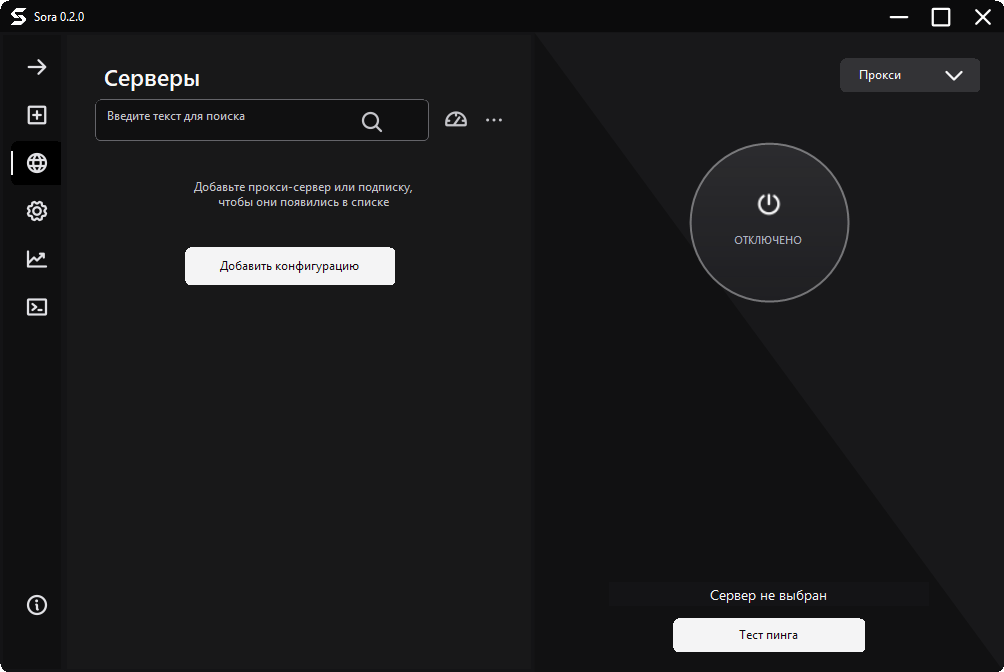
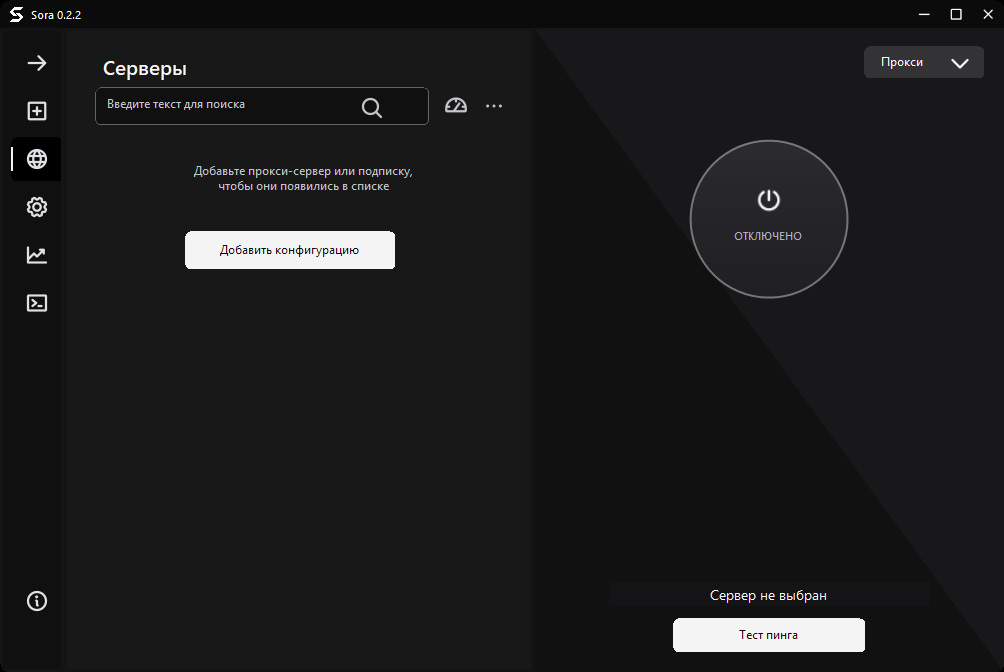
docs: refresh Sora GitHub presentation

diff --git a/README.md b/README.md
@@ -1,56 +1,55 @@
-<div align="center">
-  <picture>
-    <source media="(prefers-color-scheme: dark)" srcset="v2rayN/v2rayN/Assets/Sora/sora-logo-white.png">
-    <source media="(prefers-color-scheme: light)" srcset="v2rayN/v2rayN/Assets/Sora/sora-logo-black.png">
-    <img alt="Sora" src="v2rayN/v2rayN/Assets/Sora/sora-logo-black.png" width="96">
-  </picture>
+<p align="center">
+  <img src="docs/images/sora-cover.png" alt="Sora" width="100%">
+</p>
 
-  # Sora
+<h1 align="center">Sora</h1>
 
-  Простой открытый прокси-клиент для Windows 7 SP1 x86
+<p align="center">
+  <strong>Прокси-клиент для Windows 7 SP1 x86.</strong><br>
+  Один установщик, современный интерфейс и всё необходимое внутри.
+</p>
 
-  [![Release](https://img.shields.io/github/v/release/levvs-one/sora-client?display_name=tag&style=flat-square)](https://github.com/levvs-one/sora-client/releases/latest)
-  [![License](https://img.shields.io/github/license/levvs-one/sora-client?style=flat-square)](LICENSE)
-  ![Platform](https://img.shields.io/badge/Windows-7%20SP1-111111?style=flat-square)
-  ![Architecture](https://img.shields.io/badge/architecture-x86-555555?style=flat-square)
-</div>
+<p align="center">
+  <a href="https://github.com/levvs-one/sora-client/releases/download/v0.2.2/Sora-0.2.2-Win7-x86-Setup.exe"><strong>Скачать Sora 0.2.2</strong></a>
+  ·
+  <a href="https://github.com/levvs-one/sora-client/releases/download/v0.2.2/Sora-0.2.2-SHA256SUMS.txt">SHA-256</a>
+  ·
+  <a href="https://github.com/levvs-one/sora-client/releases/tag/v0.2.2">Что изменилось</a>
+</p>
 
-`sora-client` — техническое имя проекта. В интерфейсе и установщике используется название **Sora**.
+<p align="center">
+  <img alt="Windows 7 SP1" src="https://img.shields.io/badge/Windows-7%20SP1-222222?style=flat-square">
+  <img alt="x86" src="https://img.shields.io/badge/архитектура-x86-444444?style=flat-square">
+  <a href="LICENSE"><img alt="GPL-3.0" src="https://img.shields.io/badge/лицензия-GPL--3.0-222222?style=flat-square"></a>
+</p>
 
-Проект создан для сообщества пользователей устаревших 32-разрядных систем: один установщик, понятный интерфейс и необходимые компоненты в комплекте.
+> [!NOTE]
+> Sora — независимый проект сообщества на базе v2rayN. Он не связан с OpenAI или Happ. Техническое имя репозитория — `sora-client`.
 
-> [!IMPORTANT]
-> Sora — независимый неофициальный проект. Он не связан с OpenAI, Flyfrog LLC, Happ Desktop или их владельцами. В проект не входят исходный код, логотипы и другие материалы Happ.
+## Быстрый старт
 
-![Главное окно Sora](docs/images/sora-main.png)
+1. Скачай [`Sora-0.2.2-Win7-x86-Setup.exe`](https://github.com/levvs-one/sora-client/releases/download/v0.2.2/Sora-0.2.2-Win7-x86-Setup.exe).
+2. Запусти установщик. Недостающие .NET Framework 4.8 и обновление SHA-2 установятся автоматически.
+3. Открой Sora, нажми **«Добавить конфигурацию»** и вставь ссылку подписки или конфигурацию.
 
-## Возможности
+> [!WARNING]
+> Установщик пока не подписан сертификатом. Windows может показать SmartScreen. Перед запуском сверь файл с [официальной контрольной суммой](https://github.com/levvs-one/sora-client/releases/download/v0.2.2/Sora-0.2.2-SHA256SUMS.txt).
 
-- один установщик для 32-разрядной Windows 7 SP1;
-- системный прокси и TUN-режим;
-- единое окно импорта с автоопределением HTTPS-подписок, VMess, VLESS, Trojan, Shadowsocks, SOCKS, Base64, SIP008 и Xray JSON;
-- подписки, маршрутизация и входящие подключения;
-- проверка задержки и выбор лучшего измеренного сервера;
-- реальные показатели текущего подключения;
-- журналы приложения, ядра, TUN, AntiFilter, подписок и службы;
-- диагностический ZIP без адресов серверов, UUID, ссылок подписок и учётных данных;
-- автозапуск через параметр `--silent`;
-- монохромный интерфейс Sora с собственными диалогами, меню и подтверждениями вместо системных экранов WinForms.
+## Что умеет
 
-## Установка
+| | |
+|---|---|
+| **Подключение** | Системный прокси и TUN-режим |
+| **Импорт** | HTTPS-подписки, Base64, VMess, VLESS, Trojan, Shadowsocks, SOCKS, SIP008 и Xray JSON |
+| **Подписки** | Автоопределение формата, обновление без потери старых серверов, сохранение названий и эмодзи |
+| **Проверка** | Прямой TCP-пинг до сервера и выбор лучшего измеренного профиля |
+| **Диагностика** | Раздельные журналы и безопасный ZIP без ссылок подписок, UUID и учётных данных |
+| **Комплект** | Xray, sing-box, tun2proxy, Wintun и системные компоненты в одном `.exe` |
 
-1. Откройте [последний релиз](https://github.com/levvs-one/sora-client/releases/latest).
-2. Скачайте `Sora-0.2.2-Win7-x86-Setup.exe`.
-3. Сверьте SHA-256 с файлом `Sora-0.2.2-SHA256SUMS.txt`.
-4. Запустите установщик.
+![Главное окно Sora 0.2.2](docs/images/sora-main.png)
 
-Установщик добавляет .NET Framework 4.8 и обновление SHA-2 KB3033929 только при необходимости. Для TUN приложение запросит права администратора.
-
-Установщик пока не подписан сертификатом. SmartScreen может показать предупреждение «неизвестный издатель» — это не заменяет проверку контрольной суммы.
-
-Подробности выпусков: [Sora 0.2.2](docs/releases/0.2.2.md), [Sora 0.2.1](docs/releases/0.2.1.md), [Sora 0.2.0](docs/releases/0.2.0.md) и [Sora 0.1.0](docs/releases/0.1.0.md).
-
-## Совместимость
+<details>
+<summary><strong>Совместимость</strong></summary>
 
 | Компонент | Версия | Архитектура |
 |---|---:|---|
@@ -61,33 +60,42 @@
 | tun2proxy | 0.7.16 | win7-i686 |
 | Wintun | 0.14.1 | x86 |
 
-Целевая система — Windows 7 SP1 x86. Для TUN нужен IPv4-адрес сервера. IPv6 в legacy-сборке намеренно не включён.
+Целевая система — **Windows 7 SP1 x86**. Для TUN нужен IPv4-адрес сервера. IPv6 в legacy-сборке намеренно не включён.
 
-## Сборка из исходников
+</details>
 
-Проект основан на [v2rayN 5.39](https://github.com/2dust/v2rayN/tree/529b6613e9193206277b2c2bfc3430ff17663f57) и собирается как `net48/win7-x86`.
+<details>
+<summary><strong>Сборка из исходников</strong></summary>
 
-Требуются .NET SDK 8, Windows, Inno Setup 7 и совместимые x86-компоненты, перечисленные в [THIRD-PARTY-NOTICES.md](THIRD-PARTY-NOTICES.md).
+Sora основана на [v2rayN 5.39](https://github.com/2dust/v2rayN/tree/529b6613e9193206277b2c2bfc3430ff17663f57) и собирается как `net48/win7-x86`.
+
+Понадобятся Windows, .NET SDK 8, Inno Setup 7 и совместимые x86-компоненты из [THIRD-PARTY-NOTICES.md](THIRD-PARTY-NOTICES.md).
 
 ```powershell
 dotnet restore .\v2rayN\v2rayN\v2rayN.csproj --runtime win7-x86
 dotnet build .\v2rayN\v2rayN\v2rayN.csproj --configuration Release --runtime win7-x86 --no-restore
 ```
 
-Скрипт `build/Stage-Release.ps1` формирует чистый каталог приложения. Сценарий `installer/Sora.iss` создаёт единый установщик.
+`build/Stage-Release.ps1` собирает чистый каталог приложения, а `installer/Sora.iss` создаёт единый установщик.
 
-## Безопасность
+</details>
 
-- Не публикуйте конфигурации, ссылки подписок, UUID и журналы с адресами серверов.
-- Проверяйте SHA-256 файлов релиза.
-- Уязвимости сообщайте по правилам из [SECURITY.md](SECURITY.md), а не через публичный issue.
+<details>
+<summary><strong>Безопасность и приватность</strong></summary>
 
-## Происхождение и лицензии
+- Не публикуй ссылки подписок, UUID, адреса серверов и необработанные журналы.
+- Используй встроенный безопасный диагностический архив.
+- Об уязвимостях сообщай по правилам из [SECURITY.md](SECURITY.md), а не через публичный issue.
+- Проверяй SHA-256 установщика перед запуском.
 
-Sora является изменённой версией v2rayN 5.39. Изменения проекта Sora начаты 29 августа 2026 года. Подробное уведомление приведено в [NOTICE.md](NOTICE.md).
+</details>
 
-Код приложения распространяется по [GNU GPL-3.0](LICENSE). Получатели бинарной сборки могут скачать соответствующий исходный код из тега того же релиза. Сторонние компоненты сохраняют собственные лицензии; версии, источники и контрольные суммы перечислены в [THIRD-PARTY-NOTICES.md](THIRD-PARTY-NOTICES.md).
+## Проект
 
-## Участие в разработке
+[Все релизы](https://github.com/levvs-one/sora-client/releases) · [История изменений](CHANGELOG.md) · [Предложить улучшение](https://github.com/levvs-one/sora-client/issues/new?template=02_feature_request.yml) · [Сообщить об ошибке](https://github.com/levvs-one/sora-client/issues/new?template=01_bug_report.yml) · [Участие в разработке](CONTRIBUTING.md)
 
-Правила для изменений находятся в [CONTRIBUTING.md](CONTRIBUTING.md). История пользовательских изменений ведётся в [CHANGELOG.md](CHANGELOG.md).
+## Происхождение и лицензия
+
+Sora — изменённая версия v2rayN 5.39. Код распространяется по [GNU GPL-3.0](LICENSE), уведомления об авторах сохранены в [NOTICE.md](NOTICE.md), а лицензии и версии сторонних компонентов перечислены в [THIRD-PARTY-NOTICES.md](THIRD-PARTY-NOTICES.md).
+
+Исходный код каждой бинарной версии доступен в теге и архиве соответствующего релиза.

diff --git a/docs/releases/0.2.2.md b/docs/releases/0.2.2.md
@@ -1,29 +1,31 @@
 # Sora 0.2.2
 
-Исправляющий выпуск для импорта подписок и проверки задержки.
+Импорт подписок больше не теряет серверы, а кнопка пинга наконец измеряет задержку до настоящего адреса.
 
-## Что исправлено
+## Скачать
 
-- Sora распознаёт ответ подписки в виде JSON-массива полных конфигураций Xray и создаёт отдельную запись для каждого совместимого профиля.
-- Смешанные ответы обрабатываются безопасно: совместимые VLESS, VMess, Trojan, Shadowsocks, SOCKS, HTTP и WireGuard импортируются, неподдерживаемые протоколы пропускаются.
-- Крупный JSON больше не обрезается встроенным ограничением поля WinForms: окно принимает до 4 МБ.
-- Обновление подписки стало транзакционным. Если загрузка или разбор не удались, прежние серверы и их файлы остаются на месте.
-- Временный сетевой таймаут получает одну повторную попытку с небольшой задержкой.
-- Кнопка «Тест пинга» измеряет TCP-задержку до реального адреса и порта, в том числе у полных конфигураций Xray, без внешнего HTTP-сервиса.
+[**Установщик для Windows 7 x86**](https://github.com/levvs-one/sora-client/releases/download/v0.2.2/Sora-0.2.2-Win7-x86-Setup.exe) · [SHA-256](https://github.com/levvs-one/sora-client/releases/download/v0.2.2/Sora-0.2.2-SHA256SUMS.txt) · [Исходный код](https://github.com/levvs-one/sora-client/releases/download/v0.2.2/sora-client-0.2.2-source.zip)
 
-## Проверка выпуска
+## Главное
 
-- Проект собран как `net48/win7-x86`.
-- Реальный ответ подписки размером 106 КБ распознан как 10 совместимых профилей из 11; неподдерживаемый Hysteria корректно пропущен.
-- Чистый экземпляр Sora импортировал 10 профилей через собственное окно, показал числовой TCP-пинг и сохранил все 10 после перезапуска.
-- Встроенный Xray 25.9.11 принял все 10 сохранённых конфигураций в режиме проверки.
+- JSON-массивы Xray импортируются отдельными серверами с исходными названиями и эмодзи.
+- Неподдерживаемые протоколы пропускаются, а не превращаются в нерабочие записи.
+- Ошибка загрузки или разбора больше не удаляет сохранённую подписку.
+- Большие ответы до 4 МБ не обрезаются ограничением WinForms.
+- TCP-пинг работает напрямую с адресом сервера, включая полные конфигурации Xray.
+- Временный сетевой таймаут получает одну повторную попытку.
 
-Во время финальной проверки сам сервер тестовой подписки перестал принимать TCP-соединения, поэтому сетевой сбой отдельно подтверждён как безопасный: пустой результат не заменяет ранее сохранённые данные.
+<details>
+<summary><strong>Как проверяли выпуск</strong></summary>
 
-## Установка
+- Реальный ответ размером 106 КБ: 10 совместимых профилей из 11.
+- Чистый запуск: импортировано 10 профилей, показан числовой пинг, данные сохранены после перезапуска.
+- Xray 25.9.11: все 10 конфигураций прошли `run -test`.
+- Цель сборки: `net48/win7-x86`.
 
-1. Скачайте `Sora-0.2.2-Win7-x86-Setup.exe`.
-2. Сверьте SHA-256 по файлу `Sora-0.2.2-SHA256SUMS.txt`.
-3. Запустите установщик. .NET Framework 4.8 и KB3033929 устанавливаются только при необходимости.
+Во время последней проверки внешний сервер тестовой подписки перестал принимать соединения. Путь ошибки проверен отдельно: Sora сохраняет прежние данные.
 
-Установщик не подписан Authenticode. Исходный код выпуска находится в теге `v0.2.2` и в автоматически сформированном source-архиве GitHub.
+</details>
+
+> [!NOTE]
+> Установщик не подписан Authenticode, поэтому Windows может показать SmartScreen. Сверяй SHA-256 перед запуском.
